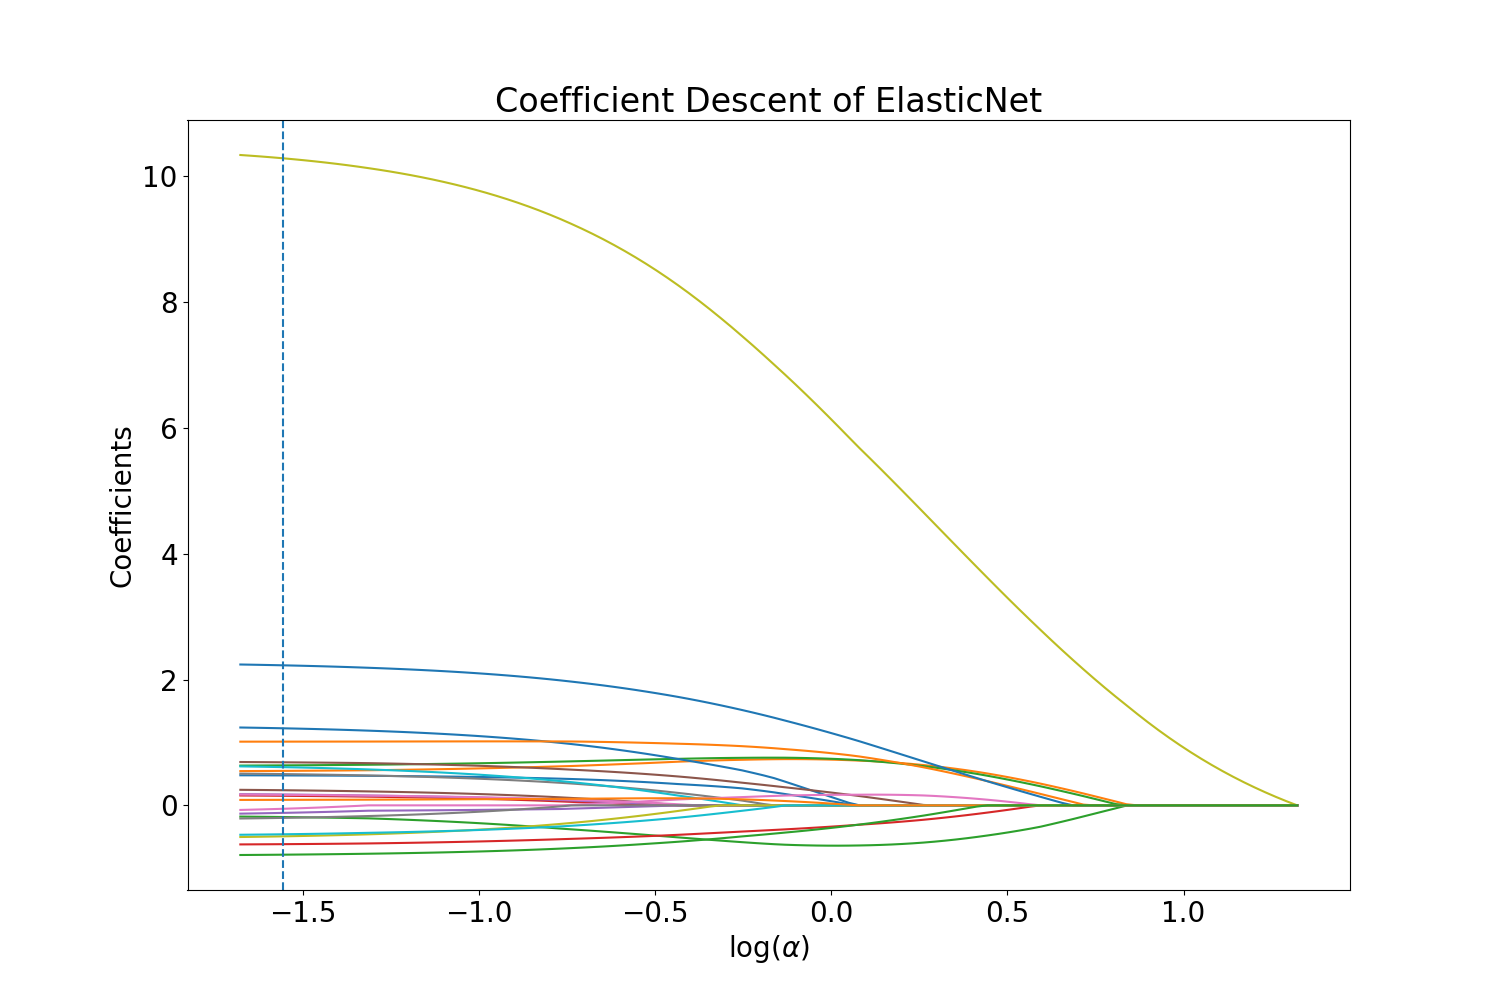
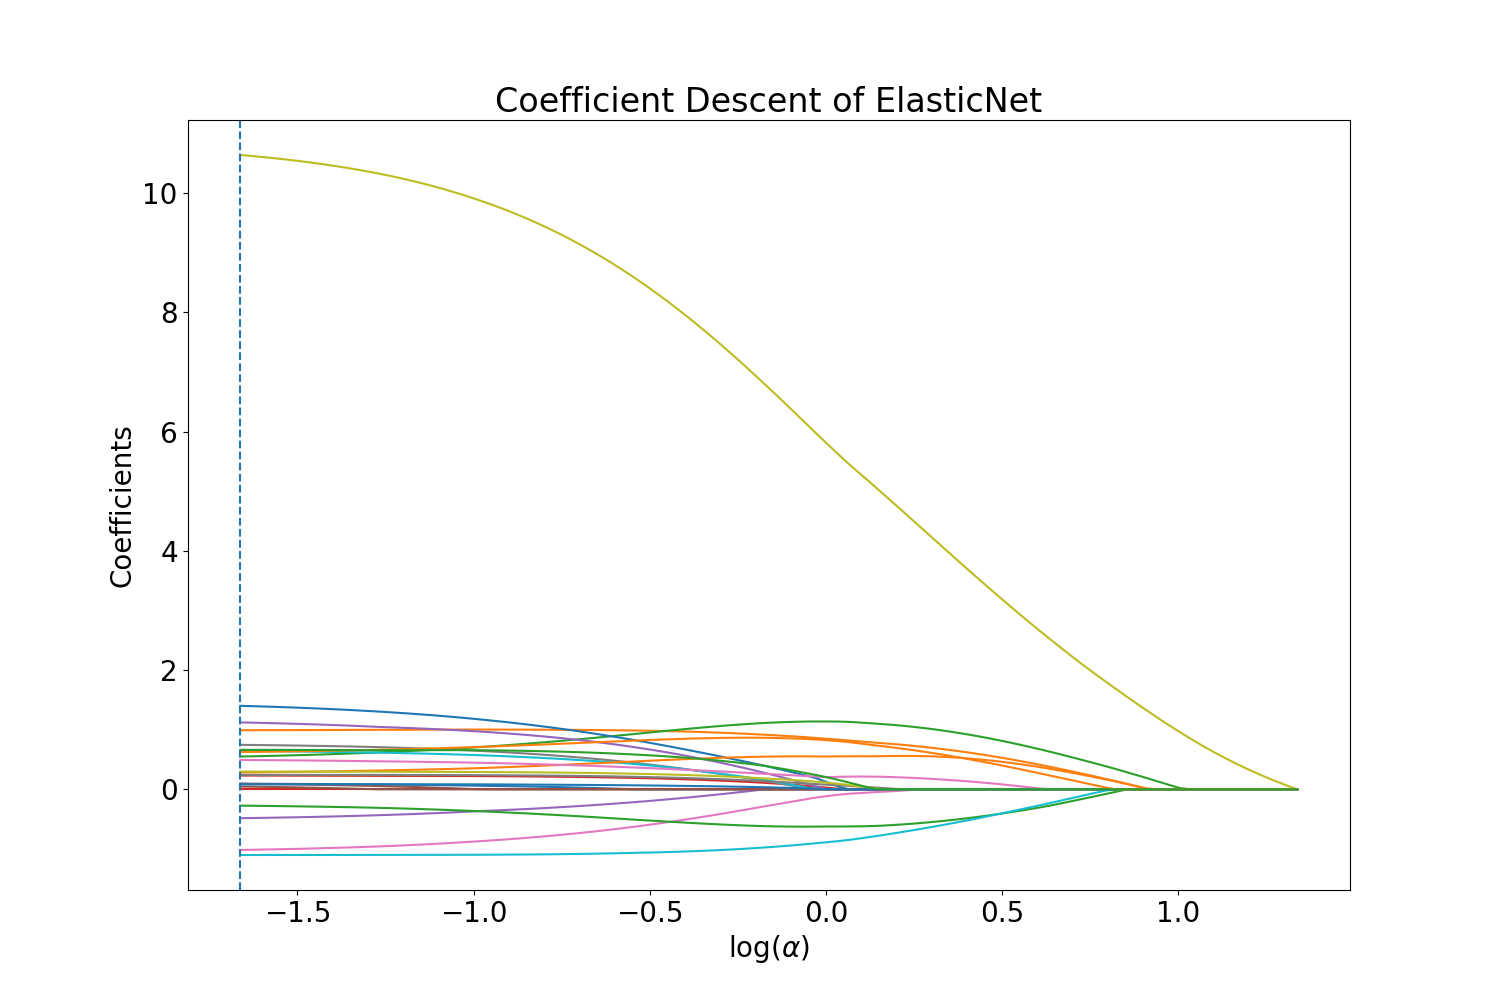
Use SMOTE, log kfold_mean_scores

diff --git a/src/PIRUS_Logistic.py b/src/PIRUS_Logistic.py
@@ -7,6 +7,7 @@ from utils import XyScaler
 import statsmodels.api as sm
 from sklearn.linear_model import Lasso, LassoCV, ElasticNetCV, LogisticRegressionCV, LogisticRegression
 from sklearn.model_selection import train_test_split, GridSearchCV, KFold
+from sklearn.svm import l1_min_c
 from statsmodels.stats import outliers_influence, diagnostic
 import matplotlib as mpl
 mpl.rcParams.update({
@@ -31,18 +32,29 @@ class LogisticModel(Data):
     def fit_model(self):
         self.model.fit(self.X_train,self.y_train)
 
+    def clean_split_fit(self):
+        self.prep_data()
+        self.fit_model()
+
     def plot_coef_log_alphas(self):
-        coeffs = self.model.coefs_paths_.values
-        import pdb; pdb.set_trace()
-        plt.plot(self.log_alphas,coeffs)
-        plt.axvline(np.log10(self.model.alpha_),linestyle='--')
-        plt.title(f'Coefficient Descent of {self.name}')
-        plt.xlabel('Cs')
+        clf = LogisticRegression(penalty='l1', solver='saga')
+        cs = l1_min_c(self.X_train, self.y_train, loss='log') * np.logspace(0, 7, 16)
+        coefs_ = []
+        for c in cs:
+            clf.set_params(C=c)
+            clf.fit(self.X_train, self.y_train)
+            coefs_.append(clf.coef_.ravel().copy())
+
+        plt.plot(np.log10(cs), np.array(coefs_))
+        # coeffs = self.model.coefs_paths_.values
+        plt.axvline(np.log10(self.model.C_),linestyle='--')
+        plt.title(f'{self.name} Path')
+        plt.xlabel('log(C)')
         plt.ylabel('Coefficients')
         plt.savefig(f'../plots/{self.name}_{self.predict}_coefficient_descent.png')
 
     def plot_mse(self):
-        mse_path = self.model.mse_path_[:,1:]
+        mse_path = self.model.mse_path_
         mean_mse = mse_path.mean(axis=1)
         plt.plot(self.log_alphas,mse_path,linestyle='--')
         plt.plot(self.log_alphas,mean_mse,label='Mean MSE',linewidth=5,color='k')
@@ -54,7 +66,8 @@ class LogisticModel(Data):
 
     def plot_scores_kfold(self):
         logistic = LogisticRegression(penalty='l1', solver='saga', random_state=0)
-        Cs = np.linspace(0.001, 1000, 30)
+        # Cs = np.linspace(0.001, 1000, 30)
+        Cs = l1_min_c(self.X_train, self.y_train, loss='log') * np.logspace(0, 7, 16)
 
         tuned_parameters = [{'C': Cs }]
 
@@ -80,15 +93,9 @@ class LogisticModel(Data):
     def plot_ROC(self):
         pass
 
-    def predict_y(self):
-        return self.model.predict(self.X_test)
-
     def print_score(self):
         score = self.model.score(self.X_test,self.y_test)
         print(f"Score: {score}")
-
-    def print_alpha(self):
-        print(f"Alpha: {self.model.alpha_}")
 
     def print_vifs(self):
         for idx, col in enumerate(self.X_train.columns):
@@ -98,25 +105,19 @@ class LogisticModel(Data):
         for idx, col in enumerate(self.X_train.columns):
             print(f"{col}: {self.model.coef_[idx]}")
 
-    def print_goldsfeltquandt(self):
-        linear_model = sm.OLS(self.y_train, self.X_train).fit()
-        print(diagnostic.het_goldfeldquandt(linear_model.resid, linear_model.model.exog))
-
     def print_linear_summary(self):
-        linear_model = sm.OLS(self.y_train, self.X_train).fit()
-        print(linear_model.summary2())
-
-    def clean_split_fit(self):
-        self.prep_data()
-        self.fit_model()
+        logistic_model = sm.Logit(self.y_train, self.X_train).fit()
+        print(logistic_model.summary2())
 
 if __name__ == '__main__':
     df = pd.read_csv('../data/PIRUS.csv',na_values=['-99'])
     PIRUS = LogisticModel(df, LogisticRegressionCV(penalty='l1',cv=10,solver='saga'), 'Violent','LogisticRegression')
     PIRUS.clean_split_fit()
     # PIRUS.try_many_imputes()
-    PIRUS.print_score()
+    # PIRUS.print_score()
     # PIRUS.plot_coef_log_alphas()
+    # plt.show()
     # PIRUS.plot_mse()
     # PIRUS.plot_scores_kfold()
-    plt.show()
+    # plt.show()
+    # PIRUS.print_goldsfeltquandt()

diff --git a/src/init_data.py b/src/init_data.py
@@ -3,10 +3,10 @@ import numpy as np
 import matplotlib.pyplot as plt
 import seaborn as sns
 from fancyimpute import SimpleFill, KNN, IterativeSVD, MatrixFactorization
+from imblearn.over_sampling import SMOTE
 from utils import XyScaler
 import statsmodels.api as sm
 from sklearn.model_selection import train_test_split
-from statsmodels.stats import outliers_influence, diagnostic
 import matplotlib as mpl
 mpl.rcParams.update({
     'figure.figsize'      : (15,15),
@@ -43,13 +43,12 @@ class Data:
         self.df.Language_English.replace({1:2,-88:1})
         self.df[['Education_Change','Change_Performance','Work_History','Social_Stratum_Adulthood']].replace(-88,'NaN')
         self.incomplete_data = self.df[columns].select_dtypes(exclude='object')
-        # self.clean_data = self.df[columns].select_dtypes(exclude='object').fillna(self.df.mean())
         self.clean_data = self.impute()
         self.y = self.clean_data[self.predict]
         self.X = self.clean_data.drop(self.predict,axis=1)
 
     def impute(self,method=KNN(5)):
-        return pd.DataFrame(data=method.fit_transform(self.incomplete_data), \
+        return pd.DataFrame(data=method.fit_transform(self.incomplete_data),
                         columns=self.incomplete_data.columns,index=self.incomplete_data.index)
 
     def try_many_imputes(self):
@@ -59,21 +58,21 @@ class Data:
             mse = ((data-self.incomplete_data) ** 2).sum().mean()
             print(m.__class__.__name__, mse)
 
-    def fix_imbalance(self):
-        pass
-
     def scale_data(self):
         X_scale,y_scale = self.scaler.fit_transform(self.X,self.y)
         self.X_scale = pd.DataFrame(data=X_scale,columns=self.X.columns,index=self.X.index)
-        # self.y_scale = pd.Series(data=y_scale)
+
+    def fix_imbalance(self,method=SMOTE()):
+        os = method
+        self.X_scale,self.y = os.fit_sample(self.X_scale,self.y)
 
     def split_data(self,split=0.2):
         self.X_train, self.X_test, self.y_train, self.y_test = train_test_split(self.X_scale, self.y, test_size=split)
 
     def prep_data(self):
         self.create_clean_data()
-        self.fix_imbalance()
         self.scale_data()
+        self.fix_imbalance()
         self.split_data()
 
     def make_heatmap(self):

diff --git a/src/PIRUS_Linear.py b/src/PIRUS_Linear.py
@@ -37,6 +37,11 @@ class LinearModel(Data):
     def fit_model(self):
         self.model.fit(self.X_train,self.y_train)
 
+    def clean_split_fit(self):
+        self.prep_data()
+        self.fit_model()
+        self.get_alphas()
+
     def plot_coef_log_alphas(self):
         coeffs = self.model.path(self.X_train,self.y_train)[1]
         plt.plot(self.log_alphas,coeffs.T)
@@ -47,7 +52,7 @@ class LinearModel(Data):
         plt.savefig(f'../plots/{self.name}_{self.predict}_coefficient_descent.png')
 
     def plot_mse(self):
-        mse_path = self.model.mse_path_[:,1:]
+        mse_path = self.model.mse_path_
         mean_mse = mse_path.mean(axis=1)
         plt.plot(self.log_alphas,mse_path,linestyle='--')
         plt.plot(self.log_alphas,mean_mse,label='Mean MSE',linewidth=5,color='k')
@@ -89,9 +94,6 @@ class LinearModel(Data):
         score = self.model.score(self.X_test,self.y_test)
         print(f"{self.name} Score (predict {self.predict}): {score}")
 
-    def print_alpha(self):
-        print(f"{self.name} Alpha (predict {self.predict}): {self.model.alpha_}")
-
     def print_vifs(self):
         for idx, col in enumerate(self.X_train.columns):
             print(f"{col}: {outliers_influence.variance_inflation_factor(self.X_train.values,idx)}")
@@ -108,11 +110,6 @@ class LinearModel(Data):
         linear_model = sm.OLS(self.y_train, self.X_train).fit()
         print(linear_model.summary2())
 
-    def clean_split_fit(self):
-        self.prep_data()
-        self.fit_model()
-        self.get_alphas()
-
 if __name__ == '__main__':
     df = pd.read_csv('../data/PIRUS.csv',na_values=['-99'])
     PIRUS_Lasso = LinearModel(df, LassoCV(cv=10), 'Violent','Lasso')
@@ -120,9 +117,13 @@ if __name__ == '__main__':
     PIRUS_Lasso.clean_split_fit()
     PIRUS_Elastic.clean_split_fit()
     PIRUS_Lasso.print_score()
-    PIRUS_Lasso.print_alpha()
     PIRUS_Elastic.print_score()
-    PIRUS_Elastic.print_alpha()
+    # PIRUS_Elastic.plot_mse()
+    # plt.show()
+    # PIRUS_Elastic.plot_coef_log_alphas()
+    # plt.show()
+    # PIRUS_Elastic.plot_scores_kfold()
+    # plt.show()
     # PIRUS_Lasso.plot_mse()
     # plt.show()
     # PIRUS_Lasso.plot_coef_log_alphas()
